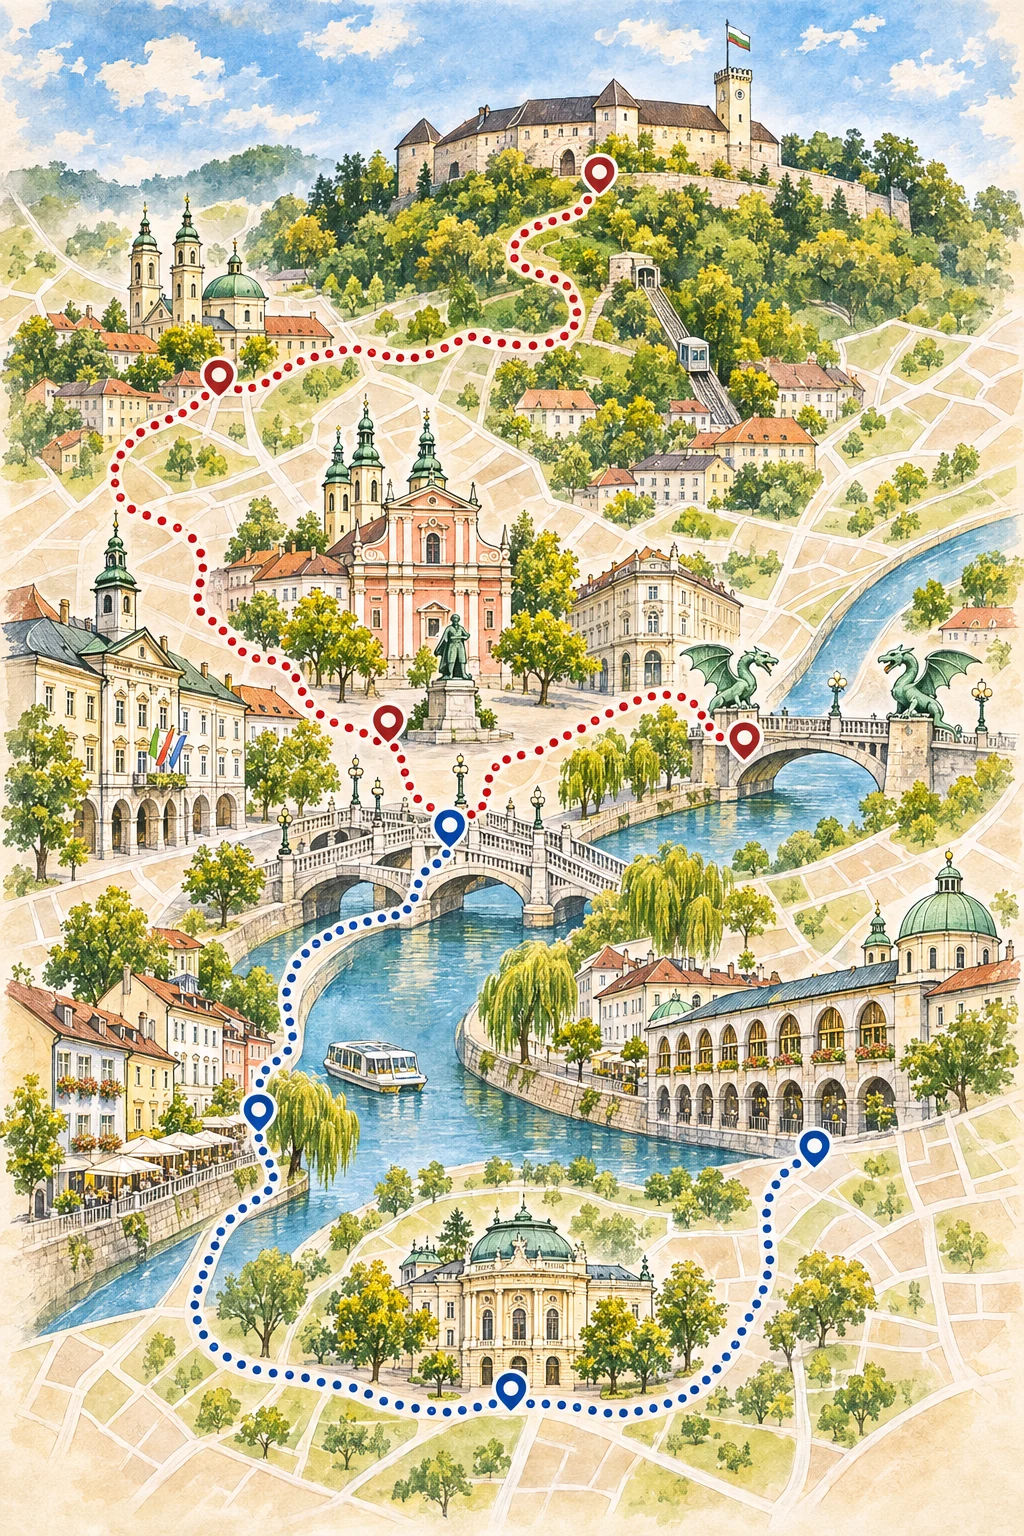
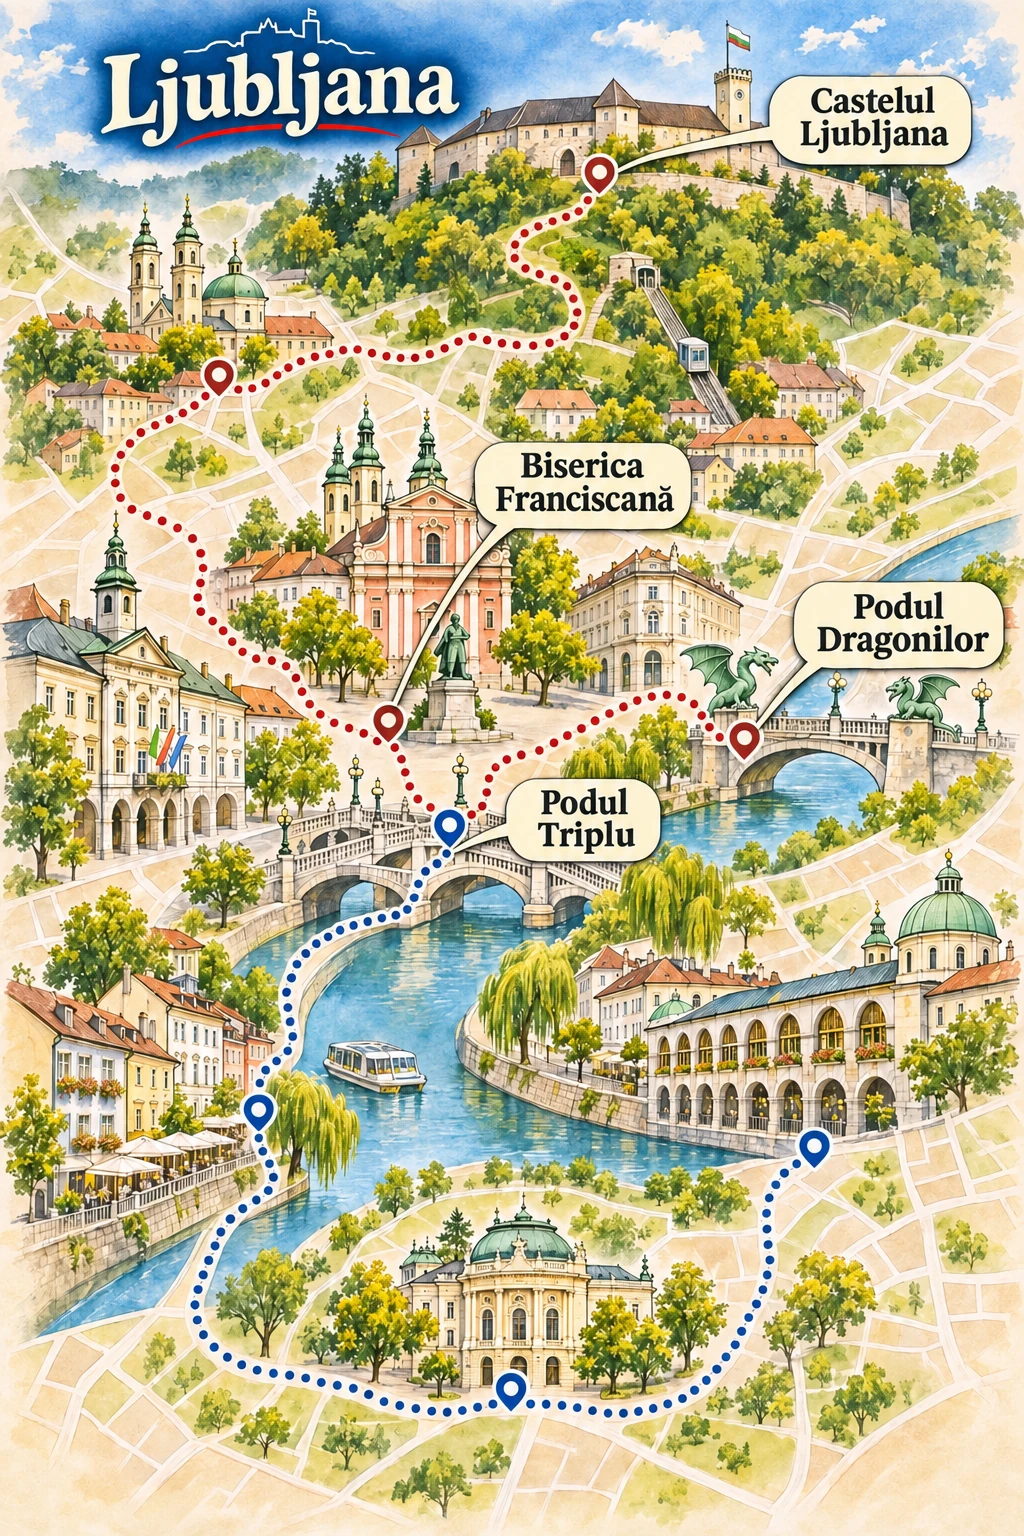
Add attraction labels to Ljubljana guide map

diff --git a/ILUSTRATII.md b/ILUSTRATII.md
@@ -48,9 +48,10 @@ Se adaugă numele obiectivelor direct pe hărțile existente, în stilul aprobat
 - Riga
 - Tallinn
 - Vilnius
+- Ljubljana
 
 Harta originală pentru Praga avea deja etichete. Celelalte orașe din `assets/guides-prague-style/` necesită în continuare verificare și prelucrare. Actualizează această listă în același commit cu fiecare lot nou.
 
-Ilustrațiile fără etichete sunt păstrate în istoricul Git: pentru Roma și Barcelona folosește fișierul de la commitul `14f016a`, iar pentru Paris, Londra, Lisabona, Berlin și Bruxelles de la `508e691`. Pentru Budapesta, Atena, Veneția, Amsterdam, Viena, Milano, Madrid, Bologna, Lyon, Porto, Varșovia, Copenhaga, Edinburgh, Bruges, Köln, Dublin, Cracovia, Stockholm, Chișinău, Bratislava, Sofia, Oslo, Bari, Napoli, Sevilla, Istanbul, Dubrovnik, Palermo, Pisa, Florența, Valencia, Nisa, Marsilia, Glasgow, Helsinki, Riga, Tallinn și Vilnius se pot folosi originalele de la `48efdd5`. Copii locale sunt în `/workspace/guide-batch/original-illustrations` când acel director este disponibil. Păstrează imaginile originale pentru quiz.
+Ilustrațiile fără etichete sunt păstrate în istoricul Git: pentru Roma și Barcelona folosește fișierul de la commitul `14f016a`, iar pentru Paris, Londra, Lisabona, Berlin și Bruxelles de la `508e691`. Pentru Budapesta, Atena, Veneția, Amsterdam, Viena, Milano, Madrid, Bologna, Lyon, Porto, Varșovia, Copenhaga, Edinburgh, Bruges, Köln, Dublin, Cracovia, Stockholm, Chișinău, Bratislava, Sofia, Oslo, Bari, Napoli, Sevilla, Istanbul, Dubrovnik, Palermo, Pisa, Florența, Valencia, Nisa, Marsilia, Glasgow, Helsinki, Riga, Tallinn, Vilnius și Ljubljana se pot folosi originalele de la `48efdd5`. Copii locale sunt în `/workspace/guide-batch/original-illustrations` când acel director este disponibil. Păstrează imaginile originale pentru quiz.
 
 Nu modifica funcționalitatea de căutare a zborurilor în cadrul acestei activități.
